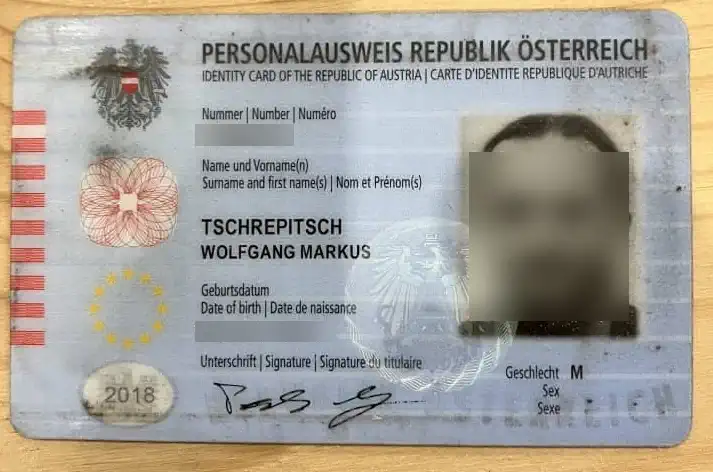
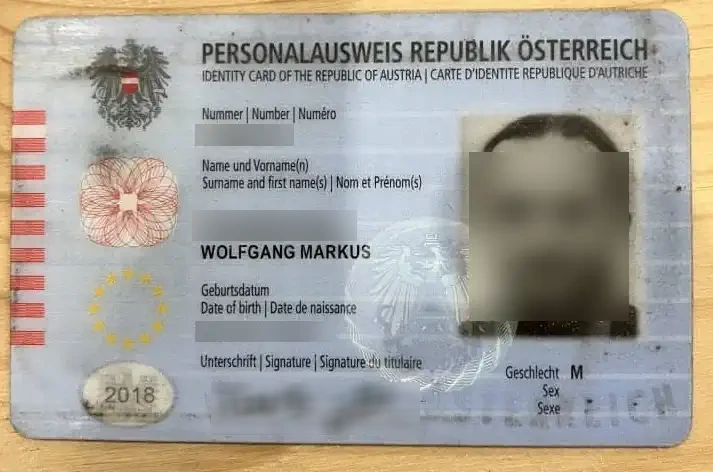
Artikel Wolfgang angepassst

Changed region(s): [[0.3086, 0.8008, 0.5554, 0.9195], [0.2777, 0.4449, 0.4937, 0.5339], [0.5554, 0.8008, 0.5863, 0.8305]]

diff --git a/acapio.de/content/posts/2025-2/2025-02-08-ursula-von-der-leyen/index.md b/acapio.de/content/posts/2025-2/2025-02-08-ursula-von-der-leyen/index.md
@@ -81,15 +81,15 @@ Das allein wäre ja noch kein Problem – aber **Rediffmail ist berüchtigt für
 
 Und mal ehrlich: **Seit wann verschickt die Präsidentin der EU offizielle Millionen-Angebote über eine indische Freemail-Adresse?** Wer bis hierhin noch gezweifelt hat, sollte spätestens jetzt den Braten riechen! 🤨💸
 
-## "Tschrepitsch Wolfgang" meldet sich! Mit Ausweis!
+## "T. Wolfgang" meldet sich! Mit Ausweis!
 
-Anstelle von Ursula meldet sich ein gewisser **Wolfgang Tschrepitsch** (borhenhans@gmail.com) und schickt direkt einen „Reisepass“ mit, um Vertrauen zu schaffen.  
+Anstelle von Ursula meldet sich ein gewisser **Wolfgang T.** (borhenhans@gmail.com) und schickt direkt einen „Reisepass“ mit, um Vertrauen zu schaffen.  
 
 Seine Geschichte: Wolfgang habe ebenfalls eine Entschädigungsmail von Ursula erhalten und sei extra nach Belgien gereist, um die Echtheit zu prüfen. Vorher habe er **42.671 € an Gebühren** gezahlt, ohne je Geld zu sehen. Diesmal habe er **590 € gezahlt** – und angeblich die 3 Millionen auf sein Konto bekommen. Nun fragt er Hugo, ob er seine Entschädigung schon erhalten hat. 
 
 > Hallo Hugo
 >   
-> Mein Name ist Tschrepitsch Wolfgang aus Österreich  
+> Mein Name ist T. Wolfgang aus Österreich  
 > Anbei mein Reisepass  
 >   
 > Ich war letzte Woche in Belgien, als ich einen Brief von Frau Ursula von der Leyen, Präsidentin der Europäischen Union, erhielt, in dem stand, dass ich von der Europäischen Union eine Entschädigung von 3.000.000,00 € erhalten habe. Ich war so überrascht, dass ich dorthin ging, um das zu bestätigen, und es stimmte. Ich sah Ihre E-Mail neben meiner E-Mail und auch auf der Liste der Entschädigungsgewinner.  
